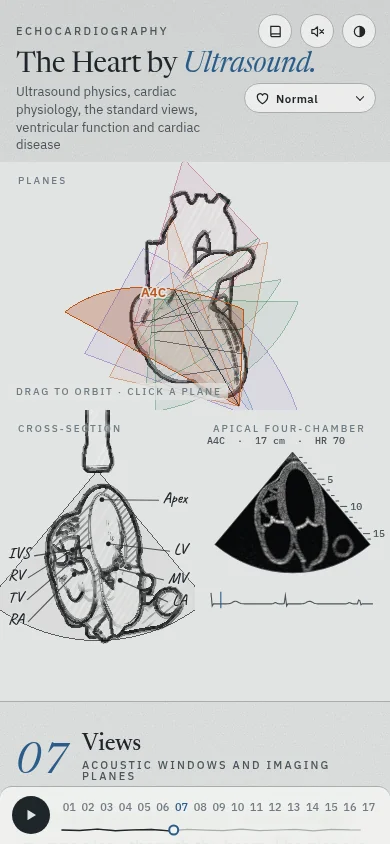
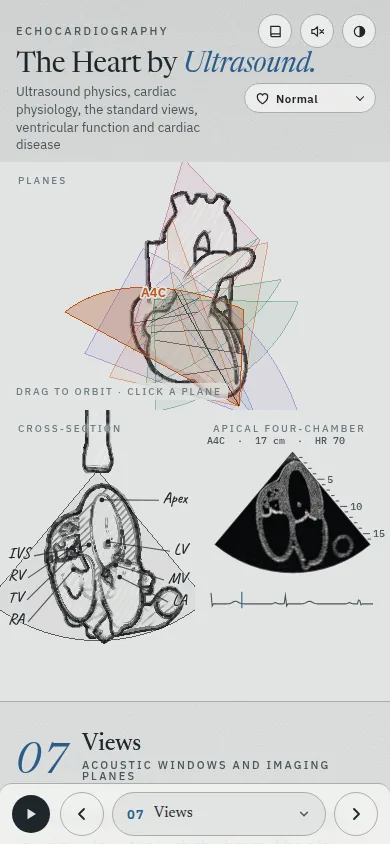
Phone bar: back, next and a list of the chapters (#23)
At 820 px and below, the bottom bar holds the tour's Play button, back, the current chapter's number and title, and next, each at least 44 px. A tap on the title opens the list of all chapters by part, with the current one marked. A title that needs more than two lines takes its short name (TR, AR and Amyloid at 320 px). Wider screens keep the row of numbers. Touch test 26/26; layout audit 0 findings at 14 sizes.

Claude-Session: https://claude.ai/code/session_01NtQNVy8YQ5NUAw3xwF3MnN

diff --git a/src/styles.css b/src/styles.css
@@ -718,6 +718,16 @@ input[type="range"]::-moz-range-thumb { width: 14px; height: 14px; border-radius
 .track .line { stroke: var(--rule); stroke-width: 1.2; fill: none; }
 .track .done { stroke: var(--ink); stroke-width: 1.4; fill: none; }
 .track .dot { fill: var(--paper-2); stroke: var(--accent); stroke-width: 2; }
+/* phones: back, the chapter (a tap lists all of them), next, in place of the numbers */
+.pager { display: none; }
+.pg-step, .pg-cur { touch-action: manipulation; cursor: pointer; }
+.pg-step { flex: none; width: 44px; height: 44px; padding: 0; border: 1px solid var(--rule); border-radius: 50%; background: transparent; color: var(--ink); display: grid; place-items: center; }
+.pg-step svg { width: 16px; height: 16px; }
+.pg-step:disabled { color: var(--ink-3); opacity: 0.4; cursor: default; }
+.pg-cur { flex: 1; min-width: 0; min-height: 44px; display: flex; align-items: center; gap: 9px; padding: 0 14px; border: 1px solid var(--rule); border-radius: 22px; background: var(--paper); color: var(--ink); }
+.pg-cur .n { flex: none; font: 600 0.8125rem/1 var(--sans); letter-spacing: 0.08em; color: var(--accent); font-variant-numeric: tabular-nums; }
+.pg-cur .t { flex: 1; min-width: 0; max-height: 2.24em; overflow: hidden; text-align: left; font: 400 0.9375rem/1.12 var(--serif); }
+.pg-cur svg { flex: none; width: 14px; height: 14px; color: var(--ink-2); }
 
 /* ------------------------------------------------------------------ dialog */
 dialog {
@@ -739,6 +749,14 @@ dialog::backdrop { background: color-mix(in srgb, var(--paper) 55%, transparent)
 .reflist li { margin: 0 0 0.55em; padding-left: 0.2em; }
 .reflist .ids { font: 400 0.75rem var(--mono); color: var(--ink-2); }
 .about p { margin: 0 0 0.8em; font: 400 0.95rem/1.5 var(--serif); max-width: 66ch; }
+/* the list of chapters (the phone bar opens it) */
+#dlg-chapters { width: min(460px, calc(100% - 2 * var(--gutter))); }
+.chlist, .chlist ol { list-style: none; margin: 0; padding: 0; }
+.chlist button { width: 100%; min-height: 44px; display: flex; align-items: baseline; gap: 12px; padding: 11px 4px; border: 0; border-bottom: 1px solid var(--rule); background: transparent; color: var(--ink); text-align: left; cursor: pointer; touch-action: manipulation; }
+.chlist .n { flex: none; width: 2.2em; font: 600 0.8125rem/1 var(--sans); letter-spacing: 0.08em; color: var(--ink-3); font-variant-numeric: tabular-nums; }
+.chlist .t { min-width: 0; font: 400 1.0625rem/1.3 var(--serif); }
+.chlist button[aria-current] .n, .chlist button[aria-current] .t { color: var(--accent); }
+.chlist button[aria-current] .t { font-weight: 500; }
 
 /* ------------------------------------------------------------------ responsive */
 @media (max-width: 1400px) and (min-width: 821px) {
@@ -787,6 +805,9 @@ dialog::backdrop { background: color-mix(in srgb, var(--paper) 55%, transparent)
   }
   .groups { display: none; }
   .chapters { grid-row: 1 / span 2; align-self: center; }
+  /* the numbers are 19 px wide here: back, the chapter and next take their place */
+  .chapters { display: none; }
+  .pager { grid-column: 2; grid-row: 1 / span 2; display: flex; align-items: center; gap: 8px; min-width: 0; }
   .play { width: 38px; height: 38px; }
   .chapters .t { display: none; }
   .chapters .n { font-size: 0.75rem; text-align: center; }

diff --git a/src/main.js b/src/main.js
@@ -462,6 +462,52 @@ function buildTransport() {
   fitTransport();
   document.fonts?.ready.then(fitTransport);
   new ResizeObserver(fitTransport).observe($('.transport'));
+  // phones: back, the chapter, next. A tap on the chapter opens the list of all chapters, by part
+  const list = $('#chlist');
+  list.innerHTML = PARTS.map((p) => {
+    const items = CHAPTERS.map((c, i) => [c, i]).filter(([c]) => c.part === p.key);
+    if (!items.length) return '';
+    return `<li class="chgroup"><h3 class="dlg-sub">${esc(p.name)}</h3><ol>${items.map(([c, i]) => `<li><button type="button" data-go="${i}"><span class="n">${String(i + 1).padStart(2, '0')}</span><span class="t">${esc(c.title)}</span></button></li>`).join('')}</ol></li>`;
+  }).join('');
+  $('#pg-prev').addEventListener('click', () => goChapter(state.chapter - 1));
+  $('#pg-next').addEventListener('click', () => goChapter(state.chapter + 1));
+  $('#pg-cur').addEventListener('click', () => {
+    openDialog('dlg-chapters');
+    const cur = list.querySelector('button[aria-current]');
+    if (cur) { cur.scrollIntoView({ block: 'center' }); cur.focus({ preventScroll: true }); }
+  });
+  list.addEventListener('click', (e) => {
+    const b = e.target.closest('button[data-go]');
+    if (!b) return;
+    $('#dlg-chapters').close();
+    goChapter(Number(b.dataset.go));
+  });
+  syncPager();
+  subscribe((s, ch) => { if ('chapter' in ch) syncPager(); });
+  new ResizeObserver(fitPager).observe($('#pg-cur'));
+  document.fonts?.ready.then(fitPager);
+}
+
+/** The phone bar's title in two lines at most; if it needs more, the short name of the desktop bar. */
+function fitPager() {
+  const c = CHAPTERS[state.chapter], t = $('#pg-cur .t');
+  t.textContent = c.title;
+  if (c.nav && t.clientHeight && (t.scrollHeight > t.clientHeight + 1 || t.scrollWidth > t.clientWidth + 1)) t.textContent = c.nav;
+}
+
+/** The phone bar: the current chapter's number and title, the ends, the list's current row. */
+function syncPager() {
+  const i = state.chapter, c = CHAPTERS[i], n = String(i + 1).padStart(2, '0');
+  const cur = $('#pg-cur');
+  cur.querySelector('.n').textContent = n;
+  cur.setAttribute('aria-label', `${n} ${c.title}: list of chapters`);
+  fitPager();
+  $('#pg-prev').disabled = i === 0;
+  $('#pg-next').disabled = i === CHAPTERS.length - 1;
+  for (const b of $$('#chlist button[data-go]')) {
+    if (Number(b.dataset.go) === i) b.setAttribute('aria-current', 'page');
+    else b.removeAttribute('aria-current');
+  }
 }
 
 /** The width of an element's own text as drawn (0 when it is hidden). */

diff --git a/index.html b/index.html
@@ -1258,8 +1258,19 @@
     <ol class="chapters" id="chapters">
       <li class="track" aria-hidden="true"><svg id="track" preserveAspectRatio="none"></svg></li>
     </ol>
+    <!-- phones: back, the chapter (a tap lists all of them), next; styles.css hides the numbers there -->
+    <div class="pager" id="pager">
+      <button class="pg-step" id="pg-prev" type="button" aria-label="Previous chapter"><svg viewBox="0 0 16 16" aria-hidden="true"><path d="M10 3 5 8l5 5" fill="none" stroke="currentColor" stroke-width="1.8" stroke-linecap="round" stroke-linejoin="round"/></svg></button>
+      <button class="pg-cur" id="pg-cur" type="button" aria-haspopup="dialog" aria-controls="dlg-chapters"><span class="n">01</span><span class="t">Pulse</span><svg viewBox="0 0 16 16" aria-hidden="true"><path d="M4 6l4 4 4-4" fill="none" stroke="currentColor" stroke-width="1.6" stroke-linecap="round" stroke-linejoin="round"/></svg></button>
+      <button class="pg-step" id="pg-next" type="button" aria-label="Next chapter"><svg viewBox="0 0 16 16" aria-hidden="true"><path d="M6 3l5 5-5 5" fill="none" stroke="currentColor" stroke-width="1.8" stroke-linecap="round" stroke-linejoin="round"/></svg></button>
+    </div>
   </nav>
 </div>
+
+<dialog id="dlg-chapters" aria-labelledby="chapters-title">
+  <div class="dlg-head"><h2 id="chapters-title">Chapters</h2><button class="tool" type="button" data-close>Close</button></div>
+  <div class="dlg-body"><ol class="chlist" id="chlist"></ol></div>
+</dialog>
 
 <dialog id="dlg-refs" aria-labelledby="refs-title">
   <div class="dlg-head"><h2 id="refs-title">Sources</h2><button class="tool" type="button" data-close>Close</button></div>

diff --git a/README.md b/README.md
@@ -42,6 +42,8 @@ On a phone the figure sits above the text and stays in view while the text scrol
 
 ![Phone, chapter 07](docs/screenshots/phone-planes.webp) ![Phone, chapter 14](docs/screenshots/phone-mr.webp)
 
+On a phone the bar at the bottom holds the Play button for the tour, back and next buttons, and the current chapter's number and title. A tap on the title opens the list of all chapters, by part. Each of these targets is at least 44 px. A title that needs more than two lines takes its short name, as on the desktop bar (TR, AR and Amyloid at 320 px). Wider screens keep the row of chapter numbers.
+
 ## The heart shown
 
 The **Heart** menu in the header sets the heart for the whole page, and the page keeps the choice between visits. A note under the title says what the heart shows.
@@ -294,6 +296,8 @@ node tools/render-video.mjs --reel --stills=7,42.5             # PNG stills at t
 
 ## Checks run before this commit
 
+- Phone bar, in a browser with touch at 390 × 844: 26 checks pass. Back, the chapter title and next are at least 44 px. Back stops at 01 and next at 17. The list holds 17 rows of at least 44 px, by part, marks the current chapter and scrolls it into view. A tap on a row opens that chapter and closes the list. Escape and a tap outside the list close it and keep the chapter. At 360 and 390 px every title fits in two lines; at 320 px TR, AR and Amyloid take their short names. At 1440 × 900 the row of numbers stays, the phone bar is hidden and a click on 10 opens Fill. No page errors.
+- Phone bar layout at the 14 test sizes (320 × 640 to 1920 × 1080), 24 states each: chapter 01; nine states of 07; 10, 15 and 17 at three grades each; the PISA view of 15; the heart note; the two header dialogs; and the list of chapters. No overlapping or clipped text, no sideways scroll, no page errors.
 - PISA: chapter 04 gains the section *Flow through an orifice* (flow rate = area × velocity; the continuity equation; the PISA method) with links to chapters 03, 11, 14 and 15. Chapter 14 gains the four steps that its figure follows and a worked example: an EROA of 0.40 cm² at 5.0 m/s is 200 mL/s, a radius of 1.03 cm at 30 cm/s and 60 mL (arithmetic checked). Text checked against Zoghbi 2017. In a browser at 1440 × 900 and 390 × 844, each link opens its chapter; no page errors, no sideways scroll. Layout audit of chapters 04 and 14 at 320, 390, 768 and 1440 px: no findings.
 - Chapter 10 Fill: the 2025 ASE algorithm as a diagram in the text, with ▲▼ buttons on its nine measurements, and its path in the figure. A browser test passes 115 checks at 1440 × 900 and 111 each at 390 × 844 and 320 × 640. Each button moves its value one step and stops at its limits. The diagram, the readouts, the live sentence and the figure follow each edit, and the clicked button stays under the pointer. After an edit the slider lies in a band of the new result, and the values stay as edited. A move or drag of the slider, Play, the tour, Reset and a heart chosen on another chapter clear the edits. From the start, the buttons reach all five outcomes. An IVRT change leaves the result, and the change line says why. The flash goes after 1.4 s, and reduced motion shows none. Layout audit at the 14 sizes, nine states each (the start, the middle of each of the six bands, two edited states), and in the dark theme at 390 × 844 and 1440 × 900: no findings. The chapter video page for 10 steps through its four holds with no page error.
 - Chapter 07 in three panes. Against PR #20 (`8b449ca`): `src/gl/stage3d.js` is again the file of PR #19 (`5a06820`); `src/ch/windows.js` draws the planes, or Probe and body, in the left pane and the cross-section in the middle; `src/echo.js` takes the short names of PR #19; the video code changes only in comments. No video was rendered again.
